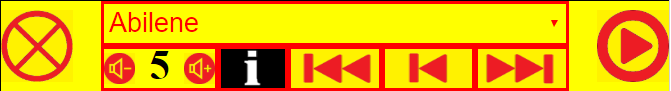
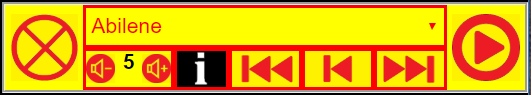
cleam up inefficient code and pop ups

diff --git a/fossils/indexBad.js b/fossils/indexBad.js
@@ -47,8 +47,8 @@
     var TUNE=undefined
     var TUNEselector;//A string to paste into the tuneSelect
     var TRACK=0;//from ARRtunes
-    var TUNE;
-    //var TRACKindex=undefined;//index of the tuneSelector
+    var TUNE='PICK ONE...';//Title of the Tune
+    var TRACKindex=undefined;//index of the tuneSelector
     var VOL=0.5;
     var LOOPtype='all';
 //^BOOT=============================================================
@@ -69,9 +69,10 @@ window.onload = function() {
     PIC=0
     tuneSelectorMake();
     document.getElementById('tuneSelect').innerHTML = TUNEselector;
-    //document.getElementById('tuneSelect').selectedIndex = TRACK;
-    trackLoad(0,false)
-    TUNE=document.getElementById('tuneSelect').value;
+    document.getElementById('tuneSelect').selectedIndex=0
+    TUNE=document.getElementById('tuneSelect').selectedValue
+    alert(TUNE)
+    document.getElementById('Audio1').src = 'Data/' + TUNE + '.mp3';
     document.getElementById("Audio1").volume = 0.033;
     VOL = 0.5;
     ARRcards=fileDownload('Data/cardsString.txt').split('\n');
@@ -299,9 +300,20 @@ function shapeShift(id, lf, rt, tp, bm, ht, wt, fs) {
 
 //^AUDIO====================================================================================================================================
 
+function player() {//opens initially opens or closes the player
+    //if (PLAYERopened == false){
+    //    PLAYERopened =true;
+    //    toggleListen()
+        //var str="The player will open at the bottom of the screen...<br><br>"
+        //str=str+"<img src='Data/playerA.png'style='position;relative;border:groove;width:90%;left:10%;'>"
+        //str=str+"<br><br>YOUR FIRST SONG SHOULD PLAY WITHIN 5 SECONDS!"
+        //pop(str, '<X1>AUTOMATICALLY OPENING THE PLAYER...<X1>',4, "toggleListen(),playTrack()")
+    //} else {
+        toggleListen(TRACK)
+    //}
+}
 
-
-function togglePlayer(){//turns listen box green and shows player A or yellow and Hides A
+function toggleListen(id){//toggles playerA & menu
     if(LISTEN==true){
         trackPause()
         LISTEN=false
@@ -310,20 +322,25 @@ function togglePlayer(){//turns listen box green and shows player A or yellow an
         trackPause()
     }else{
         LISTEN=true
+        if (id==undefined) {
+            TRACK=document.getElementById('tuneSelect').selectedIndex
+        }
         document.getElementById('listenA').style.backgroundColor='green';
         document.getElementById('listenA').style.color='white';
+         alert(TUNE+">>"+TRACK)
+        //trackPlay()
     }
     config(ID)
 }
 
-function listenXXXX(id,play){//play by selecting from the playlist etc===============
+function listen(id,play){//play by selecting from the playlist etc===============
     document.getElementById('tuneSelect').selectedIndex=id;
     if (PLAYERopened==false) {
         player()
     }else if (LISTEN==false){
-        togglePlayer()
+        toggleListen()
     }else{
-        trackLoad()
+        playTrack()
     }
 }
 
@@ -332,14 +349,43 @@ function closePlayer() {
     document.getElementById('playerB').style.display = 'none'
 }
 
-function trackLoad(track,play) {
-    trackPause()//close any playing track
-    if (track==undefined) {
-        TRACK=document.getElementById('tuneSelect').selectedIndex
-    }else{
-        TRACK=track
-        document.getElementById('tuneSelect').selectedIndex=TRACK
-        }
+function trackPause() {
+    document.getElementById('Audio1').pause()
+    dis('pauseButton','none')
+    dis('playing','none')
+}
+
+function trackPlay() {
+    //alert(Audio1).play()
+    document.getElementById('Audio1').play()
+    dis('playing','block')
+    dis('pauseButton','block')
+    document.getElementById("Audio1").onended = function() {
+        trackEnd();
+    }
+}
+
+function trackReset() {
+    document.getElementById('Audio1').currentTime = 0
+    //playTrack()
+}
+
+function trackEnd() {
+    incTrack(1)
+}
+
+
+function helpPlayer(){
+    //pop("<img src='Data/playerAhelp.png' style='position:absolute;top:0%;left:0%;width:100%;'>","PLAYER HELP",25,undefined)    
+}
+
+
+
+function playTrack() {
+    if (LISTEN==false) {
+        return
+    }
+    TRACK=document.getElementById('tuneSelect').selectedIndex
     TUNE=document.getElementById('tuneSelect').value
     //pop(ARRtunes[TRACK].split('\n').slice(1).join(''),'<X2>'+TUNE.toUpperCase()+"</X2><img onclick='helpPlayer()' src='Data/yellowHelp.png' style='position:absolute;left:0%;bottom:0;height:100%;'>",15)
     TUNE = document.getElementById('tuneSelect').value;
@@ -347,48 +393,8 @@ function trackLoad(track,play) {
         trackReset();
     }
     document.getElementById('Audio1').src = 'Data/' + TUNE + '.mp3';
-    if (play==true) {
-        if (LISTEN==false) {
-            togglePlayer()
-        }
-        trackPlay()
-    }
+    trackPlay()
 }
-
-function trackPlay() {
-    
-    document.getElementById('Audio1').play()
-    dis('playing','block')
-    dis('pauseButton','block')
-    if (document.getElementById('Audio1').currentTime<3) {
-        pop(ARRtunes[TRACK].split('\n').slice(1).join(''),'<X2>'+TUNE.toUpperCase()+"</X2>",15)
-    }
-    document.getElementById("Audio1").onended = function() {
-        trackEnd();
-    }
-}
-
-
-function trackPause() {
-    document.getElementById('Audio1').pause()
-    dis('pauseButton','none')
-    dis('playing','none')
-}
-
-function trackReset() {
-    document.getElementById('Audio1').currentTime = 0
-    trackLoad(undefined,true)
-}
-
-function trackEnd() {
-    incTrack(1)
-}
-
-function helpPlayer(){
-    pop("<img src='Data/playerAhelp.png' style='position:absolute;top:0%;left:0%;width:100%;'>","PLAYER HELP",25,undefined,'black')    
-}
-
-
 
 function incTrack(dir) {
     var newNo = parseInt(tuneSelect.selectedIndex + dir, 10)
@@ -400,25 +406,36 @@ function incTrack(dir) {
     }
     document.getElementById('tuneSelect').selectedIndex =TRACK= newNo
     TUNE=document.getElementById('tuneSelect').value
-    trackLoad(undefined,true)
+    //playTrack()
 }
 
 
-function pop(txt,title,seconds,evil,color){
+function pop(txt,title,seconds,evil,lfIcon,rtIcon){//ICONS =IconName|action    i.e.  "yellowHelp|alert('this sucks')" 
     clearTimeout(TIMEOUTpop);
-    dis('popper','block')
-    if (seconds==undefined) {seconds=10}
-    if (title==undefined) {title='POP UP NOTE!'}
-    document.getElementById('popText').innerHTML=txt
-    document.getElementById('popClose').style.display='block'
-    if (evil==undefined) {evil="dis('popper','none')"}
-    if (color==undefined){color='lightgrey'}
-    document.getElementById('popText').style.backgroundColor=color;
+    //dis('popper','block')
+    if (seconds==undefined){
+        seconds=10
+    }
+    if (title==undefined) {
+        title='POP UP NOTE!'
+    }
+
+    if (evil==undefined) {
+        evil="dis('popper','none')"
+        document.getElementById('popText').style.backgroundColor='lightgrey'
+    }else{
+        document.getElementById('popRight').style.display='none'
+        document.getElementById('popText').style.backgroundColor='pink'
+    }
     document.getElementById('popTitle').innerHTML=title
+    document.getElementById('popText').innerHTML=txt
+    document.getElementById('popRight').style.display='block'
     TIMEOUTpop = setTimeout(function() {
-    eval(evil)//dis('popper','none');
+        eval(evil);//dis('popper','none');
     },seconds*1000);
 }
+
+
 
 //^Welcome Functions============================================================
 function playCards(id,step) {
@@ -590,6 +607,31 @@ function volSet(fact) {
     document.getElementById('volUpButton').style.opacity=dial/10
     document.getElementById('volDownButton').style.opacity=1-dial/11
 }
+
+
+function XXloadTrack(TUNE, info, idx) {
+    alert('LOAD TRACK');
+    var oldGreen=undefined
+    if (TRACKindex!=undefined){
+        oldGreen='s'+TRACKindex ;
+    }
+    var newGreen='s'+idx;
+    document.getElementById('tuneSelect').selectedValue = TUNE
+    TRACKindex = document.getElementById('tuneSelect').selectedIndex
+if (idx!=undefined)TRACKindex = idx
+    if (info == true) {
+        document.getElementById('msg').innerHTML = ARRtunes[TUNE]
+        document.getElementById('msg').innerHTML = ARRtunes[TRACKindex]
+    }
+    document.getElementById('Audio1').src = 'Data/' + TUNE + '.mp3';
+    document.getElementById("Audio1").onended = function() {
+        trackReset();
+    }
+    if(oldGreen!=undefined){ document.getElementById(oldGreen).style.backgroundColor = 'lightgrey'}
+    document.getElementById(newGreen).style.backgroundColor = 'green'
+    dis('pauseButton','none')
+    dis('playing','none')
+}  
 
 //^MISC============================================================
 function fades(id, dir, ms, ids) {

diff --git a/fossils/indexBad.html b/fossils/indexBad.html
@@ -47,9 +47,9 @@
     <div id='background' style="position:fixed;display:block ;background-color:black;line-height:100%; font-size:2.5vw; left:0%; top:0%; right:0%; bottom:0%;">
 <!--popper-->    
     <div id='popper' style="position:absolute; color:black; background-color:lightgrey;font-weight:bold; border:groove;display:none; line-height:130%; overflow:hidden; font-size:5vw; text-align:center; left:5%; right:20%; top:30%; bottom:25%;z-index:1000">   
+        <img id='popLeft' src="Data/yellowHelp.png" onclick="alert('Popper-Left Icon')"  style="position:absolute;display:block;left:0%;bottom:90%;height:10%;z-index:2000;">
         <div id='popTitle'style="position:absolute;left:0%;right:0%;top:0%;height:10%;text-align:center">POP UP NOTE!!</div>
-        <img id='popClose' src="Data/yellowClose.png" onclick="dis('popper')"  style="position:absolute;display:block;right:0%;bottom:90%;height:10%;z-index:2000;">
-        <img id='popClose' src="Data/resetSpinner.gif" style="position:absolute;display:block;right:0%;bottom:90%;height:10%;">
+        <img id='popRight' src="Data/yellowClose.png" onclick="dis('popper')"  style="position:absolute;display:block;right:0%;bottom:90%;height:10%;z-index:2000;">
         <div id='popText' style="position:absolute; color:black; background-color:lightgrey;font-weight:bold; border:groove;display:block; line-height:130%; overflow-y:scroll; text-align:center; left:0%; right:0%; top:10%; bottom:0%;overflow-y:auto;word-break: keep-all;">   
         YOUR POP UP MESSAGE SHOULD HAVE APPERED HERE!!   SORRY ABOUT THAT
         </div>   
@@ -65,24 +65,16 @@
 
 <!--Audio-->
     <div id='playerB' style='position:absolute;overflow:hidden;display:none;color:white;text-align:center; border:solid;background-color:black;z-index:10;left:0%;right:0%;top:90%;bottom:0%'>
-        <select id='tuneSelectB' onchange='trackLoad(undefined,true)' style='position:absolute;display:block;border:solid;background-color:yellow;line-height:100%;font-size:3vw;text-align:center;color:red;left:0%;width:100%;top:0%;bottom:60%;z-index:5'>
+        <select id='tuneSelectB' onchange='playTrack()' style='position:absolute;display:block;border:solid;background-color:yellow;line-height:100%;font-size:3vw;text-align:center;color:red;left:0%;width:100%;top:0%;bottom:60%;z-index:5'>
         <option>XXXX</option>    
         </select>
         <audio id='Audio1' controls='true' preload='metadata' source src='none' type='audio/mpeg' style='position:absolute;display:block;left:0%;right:0%;top:20%;bottom:0%'></audio>
     </div>
     
     <div id='playerA' style='position:absolute; display:none; border:groove; background-color:yellow;font-size:3vw;line-height:75%;left:0%;width:0%;top:0%;bottom:0%;z-index:20'>
-        <select id='tuneSelect' onchange='trackLoad(undefined,true)' style='position:absolute;display:block;border:solid;background-color:yellow;line-height:100%;font-size:3vw;text-align:center;color:red;left:15%;right:15%;top:0%;max-width:60%;min-width:60%; bottom:50%;'>
-        </select>
-        
-        
-        
-<div onclick='helpPlayer()' style="position:absolute;color:red;border:solid;right:15%;top:0%;bottom:50%;line-height:80%;width:10%;">??</div>
-        
-        
-        
-        
-        <img onclick='togglePlayer()' src='Data/yellowClose.png' style='position:absolute;right:86%;bottom:10%;height:80%;'>
+            <select id='tuneSelect' onchange='playTrack()' style='position:absolute;display:block;border:solid;background-color:yellow;line-height:100%;font-size:3vw;text-align:center;color:red;left:15%;right:15%;top:0%;max-width:70%;min-width:70%; bottom:50%;'>
+            </select>
+        <img onclick='toggleListen()' src='Data/yellowClose.png' style='position:absolute;right:86%;bottom:10%;height:80%;'>
         <div id='playButtons' style='position:absolute;color:red; background-color:yellow;left:15%;right:15%;top:50%;bottom:0%;'>
             <div style='position:absolute;border:solid;background-color:transparent;left:0%;right:75%;top:0%;bottom:0%;'>
                 <img title='Quieter...' onclick='volSet(0.5)' id='volDownButton' src='Data/yellowVolDown.png' style='position:absolute;left:0%;bottom:10%;height:80%;z-index:5'>
@@ -91,7 +83,14 @@
                 </div>
                 <img title='LOUDER' onclick='volSet(2)' id='volUpButton' src='Data/yellowVolUp.png' style='position:absolute;right:0%;bottom:10%;height:80%;z-index:5'>
             </div>
+            
+            
             <div onclick= "pop(ARRtunes[TRACK].split('\n').slice(1).join(''),'<X2>'+TUNE.toUpperCase()+'</X2>')" style="position:absolute;background-image: url('Data/blackI.png');background-size:100% 100%;color:red;border:solid;font-size:3vw;left:25%;right:60%;top:0%;bottom:0%;"></div>
+           
+ <!--           
+            <div onclick= "pop(ARRtunes[TRACK].split('\n').slice(1).join(''),    "<X2>"+TUNE.toUpperCase()+"</X2>"     <img onclick='helpPlayer()' src='Data/yellowHelp.png' style='position:absolute;left:0%;bottom:0;height:100%;'>        )" style="position:absolute;background-image: url('Data/blackI.png');background-size:100% 100%;color:red;border:solid;font-size:3vw;left:25%;right:60%;top:0%;bottom:0%;"></div>
+ -->
+
             <div onclick='incTrack(-1)' style="position:absolute;background-image: url('Data/yellowLastTuneA.png');background-size:100% 100%; color:red;border:solid;font-size:3vw;left:40%;right:40%;top:0%;bottom:0%;"></div>
             <div onclick='trackReset()' style="position:absolute;background-image: url('Data/yellowRewindA.png');background-size:100% 100%; color:red;border:solid;font-size:3vw;left:60%;right:20%;top:0%;bottom:0%;"></div>
             <div onclick='incTrack(1)' style="position:absolute;background-image: url('Data/yellowNextTuneA.png');background-size:100% 100%; color:red;border:solid;font-size:3vw;left:80%;right:0%;top:0%;bottom:0%;">
@@ -116,7 +115,7 @@
         <div id='5'onclick="config(this.id)"style="position:absolute; border:none;"> GHOST BAND</div>
         <div id='6'onclick="config(this.id)"style="position:absolute; border:none;"> GADGETS</div>
         <div id='7'onclick="config(this.id)" style="position:absolute;display:block;border:none;"> GALLERY</div>
-        <div id='listenA'onclick="togglePlayer()" style="position:absolute; display:block; background-color:yellow;color:red;"> PLAYER</div>
+        <div id='listenA'onclick="toggleListen()" style="position:absolute; display:block; background-color:yellow;color:red;"> PLAYER</div>
         <img id='sizeScreen' title='Toggle Full Screen!' onclick="fullScreen()" src="Data/yellowEnterFullScreen.png" style="position:absolute;right:0%;bottom:0%;height:0%">
         <img id='8' title='Settings!'src="Data/yellowGear.png" onclick="config(this.id)" style="display:none;position:absolute;left:0%;bottom:0%;height:0%">
     </div>
